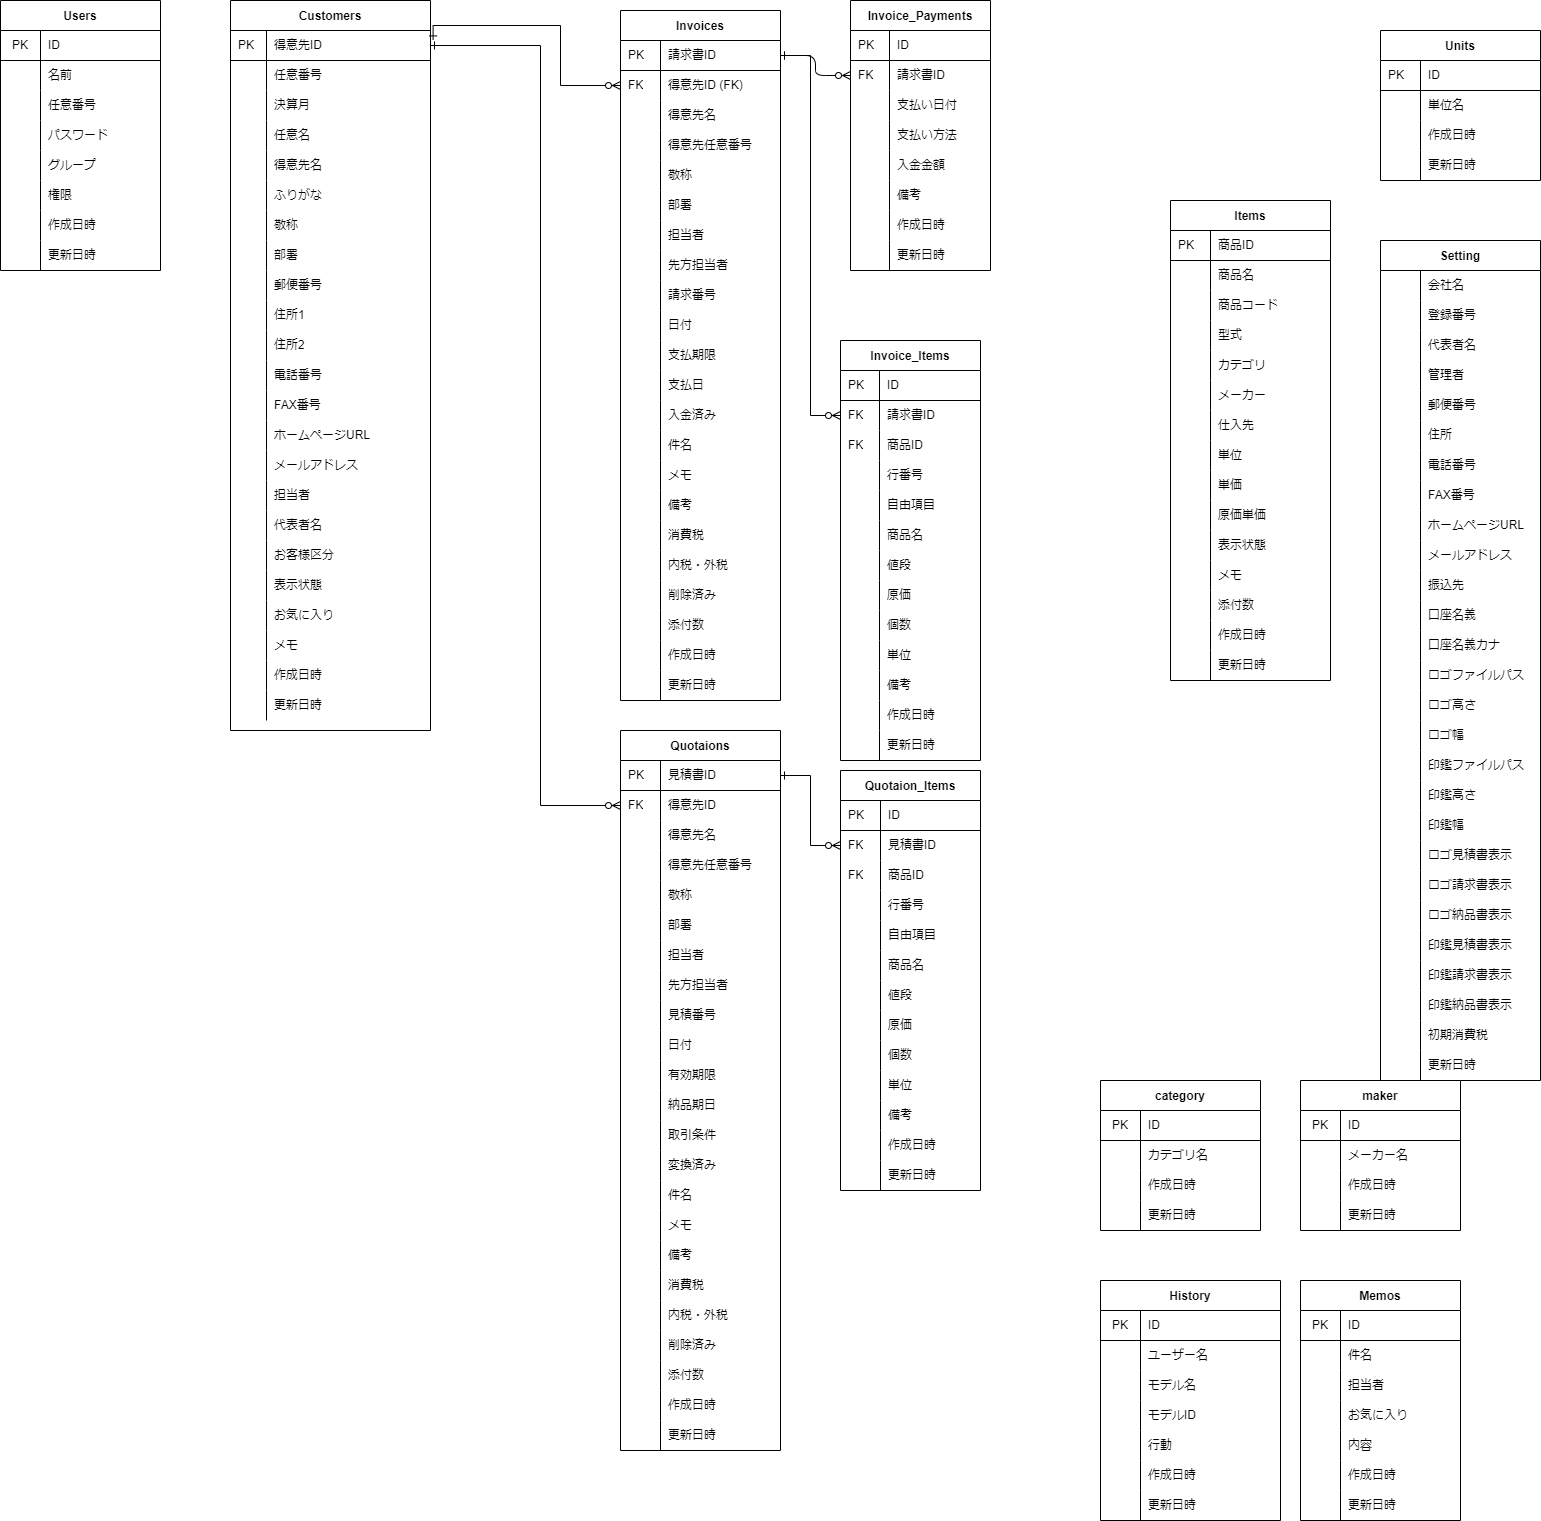
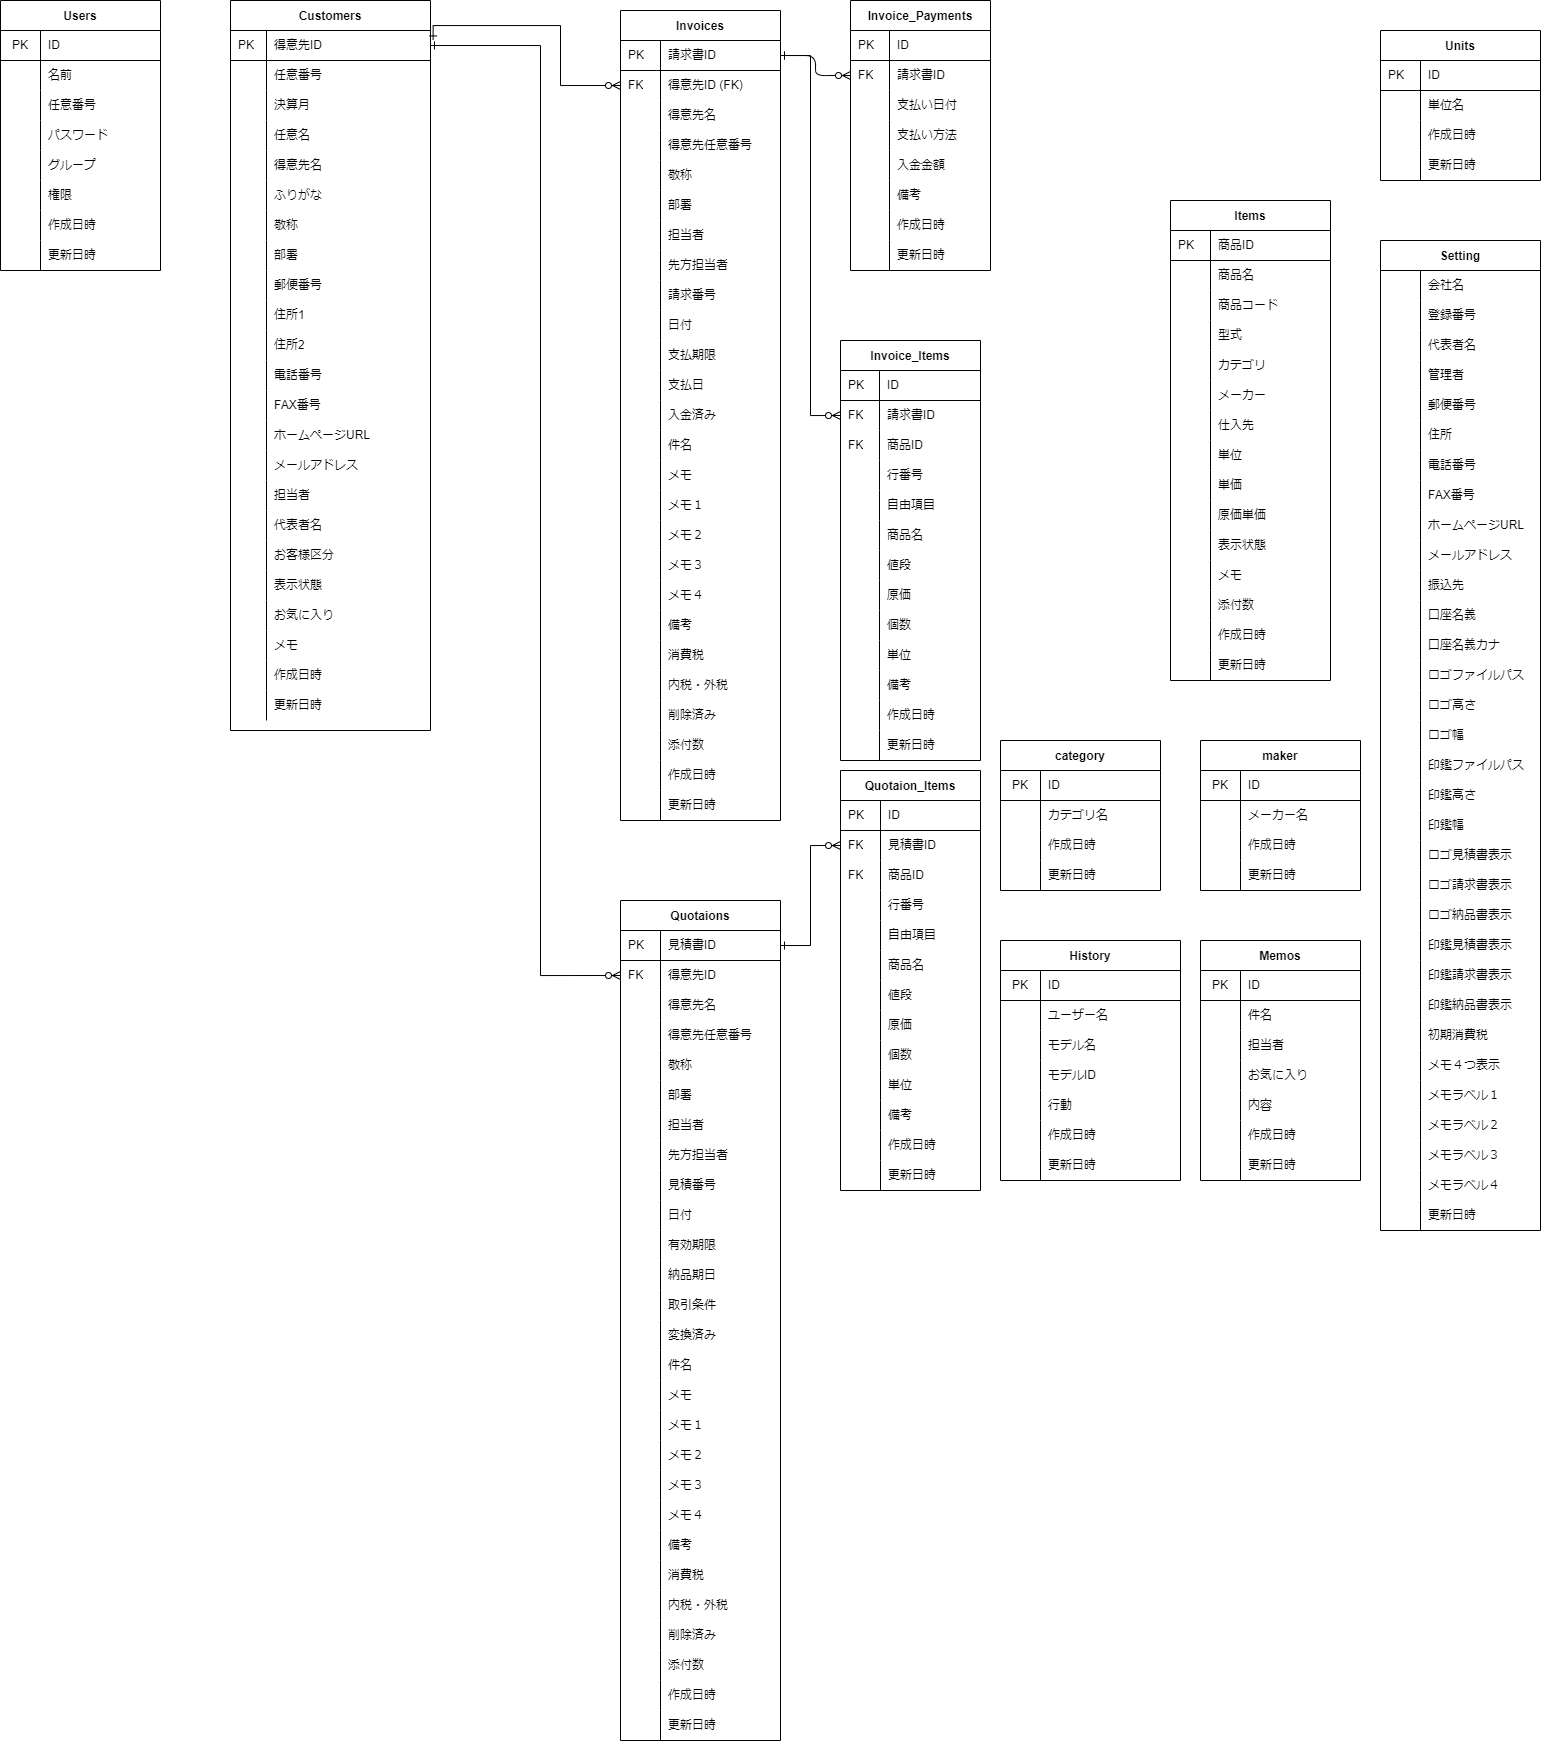
InvoiceとQuotationにmemo1~4カラム追加。SettingにisMemoQuadrupleIndicateとmemoLabel1~4カラム追加。

diff --git a/app/seeder.py b/app/seeder.py
@@ -74,11 +74,11 @@ def seeder():
     print('----Invoices-----')
     invoices = [
         Invoice(customerId=1, customerName='○○株式会社', customerAnyNumber=10000, honorificTitle='御中', department='部署1', manager='田中太郎', otherPartyManager='先方太郎', applyDate=date(2022, 1, 1), deadLine=date(2022, 1, 1),
-                paymentDate=date(2022, 1, 1), isPaid=False, title='○○株式会社への請求書', memo='これは請求書のメモです', remarks='これは請求書の備考です', tax=10, isTaxExp=True, numberOfAttachments=0),
+                paymentDate=date(2022, 1, 1), isPaid=False, title='○○株式会社への請求書', memo='これは請求書のメモです', memo1='1990', memo2='TES-TES1', memo3='TES1', memo4='10000', remarks='これは請求書の備考です', tax=10, isTaxExp=True, numberOfAttachments=0),
         Invoice(customerId=2, customerName="○○有限会社", customerAnyNumber=10001, honorificTitle='御中', department='部署2', manager='田中次郎', otherPartyManager='先方次郎', applyDate=date(2022, 1, 1), deadLine=date(2022, 1, 1),
-                paymentDate=date(2022, 1, 1), isPaid=False, title='○○有限会社への請求書', memo='これは請求書のメモです', remarks='これは請求書の備考です', tax=10, isTaxExp=True, numberOfAttachments=0),
+                paymentDate=date(2022, 1, 1), isPaid=False, title='○○有限会社への請求書', memo='これは請求書のメモです', memo1='2000', memo2='TES-TES2', memo3='TES2', memo4='20000', remarks='これは請求書の備考です', tax=10, isTaxExp=True, numberOfAttachments=0),
         Invoice(customerId=3, customerName="○○商事", customerAnyNumber=10002, honorificTitle='御中', department='部署3', manager='田中三郎', otherPartyManager='先方三郎', applyDate=date(2022, 1, 1), deadLine=date(2022, 1, 1),
-                paymentDate=date(2022, 1, 1), isPaid=False, title='○○商事への請求書', memo='これは請求書のメモです', remarks='これは請求書の備考です', tax=10, isTaxExp=True, numberOfAttachments=0),
+                paymentDate=date(2022, 1, 1), isPaid=False, title='○○商事への請求書', memo='これは請求書のメモです', memo1='2010', memo2='TES-TES3', memo3='TES3', memo4='30000', remarks='これは請求書の備考です', tax=10, isTaxExp=True, numberOfAttachments=0),
     ]
     db.session.add_all(invoices)
     db.session.commit()
@@ -133,11 +133,11 @@ def seeder():
     print('----Quotations----')
     quotations = [
         Quotation(customerId=1, customerName='○○株式会社', customerAnyNumber=10000, honorificTitle='御中', department='部署1', manager='田中太郎', otherPartyManager='先方太郎', applyDate=date(2022, 1, 1), expiry='2週間以内',
-                  dayOfDelivery='受注後1週間以内', termOfSale='御社決済条件にて', isConvert=False, title='○○株式会社への見積書', memo='これは見積書のメモです', remarks='これは見積書の備考です', tax=10, isTaxExp=True, numberOfAttachments=0),
+                  dayOfDelivery='受注後1週間以内', termOfSale='御社決済条件にて', isConvert=False, title='○○株式会社への見積書', memo='これは見積書のメモです', memo1='1990', memo2='TES-TES1', memo3='TES1', memo4='10000', remarks='これは見積書の備考です', tax=10, isTaxExp=True, numberOfAttachments=0),
         Quotation(customerId=2, customerName="○○有限会社", customerAnyNumber=10001, honorificTitle='御中', department='部署2', manager='田中次郎', otherPartyManager='先方次郎', applyDate=date(2022, 1, 1), expiry='1ヶ月以内',
-                  dayOfDelivery='受注後2週間以内', termOfSale='代金引換', isConvert=False, title='○○有限会社への見積書', memo='これは見積書のメモです', remarks='これは見積書の備考です', tax=10, isTaxExp=True, numberOfAttachments=0),
+                  dayOfDelivery='受注後2週間以内', termOfSale='代金引換', isConvert=False, title='○○有限会社への見積書', memo='これは見積書のメモです', memo1='2000', memo2='TES-TES2', memo3='TES2', memo4='20000', remarks='これは見積書の備考です', tax=10, isTaxExp=True, numberOfAttachments=0),
         Quotation(customerId=3, customerName="○○商事", customerAnyNumber=10002, honorificTitle='御中', department='部署3', manager='田中三郎', otherPartyManager='先方三郎', applyDate=date(2022, 1, 1), expiry='2ヶ月以内',
-                  dayOfDelivery='受注後1ヶ月以内', termOfSale='応相談', isConvert=False, title='○○商事への見積書', memo='これは見積書のメモです', remarks='これは見積書の備考です', tax=10, isTaxExp=True, numberOfAttachments=0),
+                  dayOfDelivery='受注後1ヶ月以内', termOfSale='応相談', isConvert=False, title='○○商事への見積書', memo='これは見積書のメモです', memo1='2010', memo2='TES-TES3', memo3='TES3', memo4='30000', remarks='これは見積書の備考です', tax=10, isTaxExp=True, numberOfAttachments=0),
     ]
     db.session.add_all(quotations)
     db.session.commit()
@@ -250,7 +250,7 @@ def seeder():
                 telNumber='000-0000-0000', faxNumber='000-0000-0000', url='mypage.com',
                 email='mymail@co.jp', payee='テスト銀行　本店(999) 普通 9999999', accountHolder='自社株式会社', accountHolderKana='カ）ジシャ', logoFilePath='./static/asset/logo/logo2.jpg', logoHeight=100, logoWidth=100,
                 stampFilePath='./static/asset/stamp/inkan.png', stampHeight=100, stampWidth=100, isDisplayQuotationLogo=True, isDisplayInvoiceLogo=True, isDisplayDeliveryLogo=True,
-                isDisplayQuotationStamp=True, isDisplayInvoiceStamp=True, isDisplayDeliveryStamp=True, defaultTax=10)
+                isDisplayQuotationStamp=True, isDisplayInvoiceStamp=True, isDisplayDeliveryStamp=True, defaultTax=10, isMemoQuadrupleIndicate=False, memoLabel1='年式', memoLabel2='型式', memoLabel3='型番', memoLabel4='走行距離',)
     ]
     db.session.add_all(setting)
     db.session.commit()

diff --git a/app/api.py b/app/api.py
@@ -761,6 +761,10 @@ def invoice_create():
         isPaid=data.get('isPaid'),
         title=data.get('title')if data.get('title') else None,
         memo=data.get('memo')if data.get('memo') else None,
+        memo1=data.get('memo1')if data.get('memo1') else None,
+        memo2=data.get('memo2')if data.get('memo2') else None,
+        memo3=data.get('memo3')if data.get('memo3') else None,
+        memo4=data.get('memo4')if data.get('memo4') else None,
         remarks=data.get('remarks')if data.get('remarks') else None,
         tax=data.get('tax'),
         isTaxExp=data.get('isTaxExp'),
@@ -812,6 +816,10 @@ def invoice_update(id):
     invoice.isPaid = data.get('isPaid')
     invoice.title = data.get('title')if data.get('title') else None
     invoice.memo = data.get('memo')if data.get('memo') else None
+    invoice.memo1 = data.get('memo1')if data.get('memo1') else None
+    invoice.memo2 = data.get('memo2')if data.get('memo2') else None
+    invoice.memo3 = data.get('memo3')if data.get('memo3') else None
+    invoice.memo4 = data.get('memo4')if data.get('memo4') else None
     invoice.remarks = data.get('remarks')if data.get('remarks') else None
     invoice.tax = data.get('tax')
     invoice.isTaxExp = data.get('isTaxExp')
@@ -1313,6 +1321,10 @@ def quotation_create():
         isConvert=data.get('isConvert') if data.get('isConvert') else False,
         title=data.get('title')if data.get('title') else None,
         memo=data.get('memo')if data.get('memo') else None,
+        memo1=data.get('memo1')if data.get('memo1') else None,
+        memo2=data.get('memo2')if data.get('memo2') else None,
+        memo3=data.get('memo3')if data.get('memo3') else None,
+        memo4=data.get('memo4')if data.get('memo4') else None,
         remarks=data.get('remarks')if data.get('remarks') else None,
         tax=data.get('tax'),
         isTaxExp=data.get('isTaxExp'),
@@ -1364,6 +1376,10 @@ def quotation_update(id):
         'isConvert') if data.get('isConvert') else False
     quotation.title = data.get('title')if data.get('title') else None
     quotation.memo = data.get('memo')if data.get('memo') else None
+    quotation.memo1 = data.get('memo1')if data.get('memo1') else None
+    quotation.memo2 = data.get('memo2')if data.get('memo2') else None
+    quotation.memo3 = data.get('memo3')if data.get('memo3') else None
+    quotation.memo4 = data.get('memo4')if data.get('memo4') else None
     quotation.remarks = data.get('remarks')if data.get('remarks') else None
     quotation.tax = data.get('tax')
     quotation.isTaxExp = data.get('isTaxExp')
@@ -1990,6 +2006,15 @@ def setting_update(id):
     setting.isDisplayDeliveryStamp = data.get('isDisplayDeliveryStamp')
     setting.defaultTax = data.get(
         'defaultTax')if data.get('defaultTax') else None
+    setting.isMemoQuadrupleIndicate = data.get('isMemoQuadrupleIndicate')
+    setting.memoLabel1 = data.get(
+        'memoLabel1') if data.get('memoLabel1') else None
+    setting.memoLabel2 = data.get(
+        'memoLabel2')if data.get('memoLabel2') else None
+    setting.memoLabel3 = data.get(
+        'memoLabel3')if data.get('memoLabel3') else None
+    setting.memoLabel4 = data.get(
+        'memoLabel4')if data.get('memoLabel4') else None
 
     newHistory = History(
         userName=current_user.id,

diff --git a/app/models.py b/app/models.py
@@ -122,6 +122,10 @@ class Invoice(db.Model):
                        default=False, server_default=db.text('0'))
     title = db.Column(db.String)
     memo = db.Column(db.String)
+    memo1 = db.Column(db.String)
+    memo2 = db.Column(db.String)
+    memo3 = db.Column(db.String)
+    memo4 = db.Column(db.String)
     remarks = db.Column(db.String)
     tax = db.Column(db.Integer, nullable=False, default=10,
                     server_default=db.text('10'))
@@ -214,6 +218,10 @@ class Quotation(db.Model):
                           default=False, server_default=db.text('0'))
     title = db.Column(db.String)
     memo = db.Column(db.String)
+    memo1 = db.Column(db.String)
+    memo2 = db.Column(db.String)
+    memo3 = db.Column(db.String)
+    memo4 = db.Column(db.String)
     remarks = db.Column(db.String)
     tax = db.Column(db.Integer, nullable=False, default=10,
                     server_default=db.text('10'))
@@ -346,6 +354,12 @@ class Setting(db.Model):
     # 設定
     defaultTax = db.Column(db.Integer, nullable=False,
                            default=10, server_default=db.text('10'))
+    isMemoQuadrupleIndicate = db.Column(
+        db.Boolean, nullable=False, default=False)
+    memoLabel = db.Column(db.String)
+    memoLabe2 = db.Column(db.String)
+    memoLabe3 = db.Column(db.String)
+    memoLabe4 = db.Column(db.String)
     updatedAt = updatedAt = db.Column(
         db.DateTime, nullable=False, default=datetime.now, onupdate=datetime.now)
 

diff --git a/models.md b/models.md
@@ -84,6 +84,10 @@
 | isPaid      | 入金済み       | boolean  |                                                           | 
 | title       | 件名           | text     |                                                           | 
 | memo        | メモ           | text     |  アプリ利用者に見えるもの                                 | 
+| memo1       | メモ1          | text     |  メモ４つモード利用時使用                                 | 
+| memo2       | メモ2          | text     |  メモ４つモード利用時使用                                 | 
+| memo3       | メモ3          | text     |  メモ４つモード利用時使用                                 | 
+| memo4       | メモ4          | text     |  メモ４つモード利用時使用                                 | 
 | remarks     | 備考           | text     |  印刷時に表示されるもの                                   |
 | tax         | 消費税         | integer   |                                                         |
 | isTaxExp    | 内税・外税     | boolean   |  内税・外税のチェック                                      | 
@@ -149,6 +153,10 @@
 | isConvert   | 変換済み       | boolean  | 請求書へ変換したタイミングでフラグを立てる                   | 
 | title       | 件名           | text     |                                                          | 
 | memo        | メモ           | text     | アプリ利用者に見えるもの                                 | 
+| memo1       | メモ1          | text     |  メモ４つモード利用時使用                                 | 
+| memo2       | メモ2          | text     |  メモ４つモード利用時使用                                 | 
+| memo3       | メモ3          | text     |  メモ４つモード利用時使用                                 | 
+| memo4       | メモ4          | text     |  メモ４つモード利用時使用                                 | 
 | remarks     | 備考           | text     | 印刷時に表示されるもの                                   | 
 | tax         | 消費税         | integer  |                                                         |
 | isTaxExp    | 内税・外税      | boolean  | 内税・外税のチェック                                     | 
@@ -270,4 +278,9 @@
 | isDisplayInvoiceStamp   | 印鑑請求書表示   | boolean     | 印刷時に表示するかどうか | 
 | isDisplayDeliveryStamp  | 印鑑納品書表示   | boolean     | 印刷時に表示するかどうか | 
 | defaultTax              | 初期消費税       | integer     | 請求・見積作成時に自動的に設定される消費税率 | 
+| isMemoQuadrupleIndicate | メモ4つ表示      | text        |  メモ４つ表示か通常表示か  | 
+| memoLabel1              | メモラベル1      | text        |  メモ４つモード利用時使用  | 
+| memoLabel2              | メモラベル2      | text        |  メモ４つモード利用時使用  | 
+| memoLabel3              | メモラベル3      | text        |  メモ４つモード利用時使用  | 
+| memoLabel4              | メモラベル4      | text        |  メモ４つモード利用時使用  | 
 | updatedAt               | 更新日時         | datetime    |                          | 
